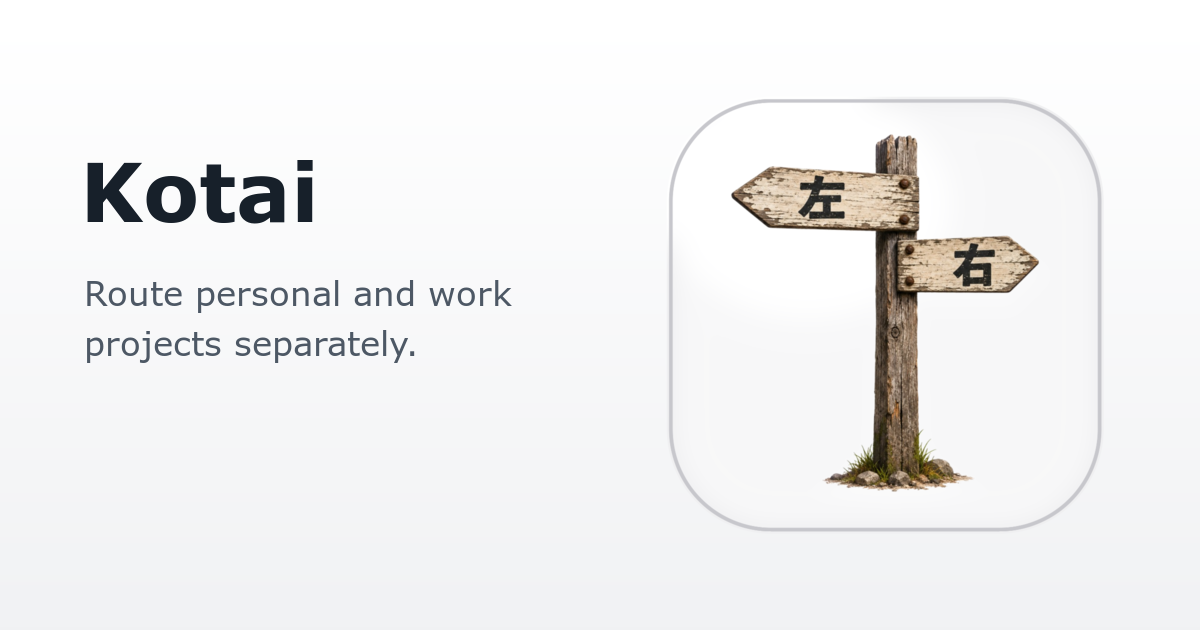
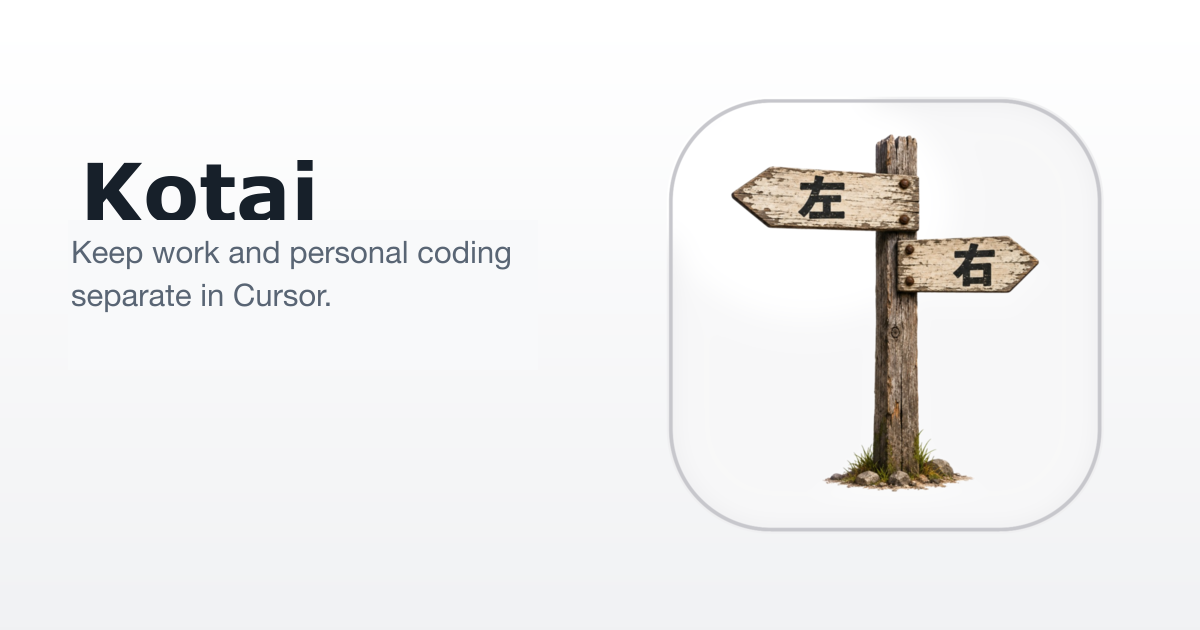
fixes

Changed region(s): [[0.0617, 0.4524, 0.4317, 0.573], [0.0617, 0.3921, 0.4317, 0.4222], [0.185, 0.3317, 0.2158, 0.3619]]

diff --git a/kotai.html b/kotai.html
@@ -11,21 +11,21 @@
   <link rel="canonical" href="https://kotai.jp/">
   <meta name="viewport" content="width=device-width, initial-scale=1">
   <meta name="description" content="Route personal and work projects through separate OpenRouter setups." data-label-en="Route personal and work projects through separate OpenRouter setups." data-label-ja="個人用と仕事用のプロジェクトを、それぞれ別のOpenRouter設定へ振り分けます。">
-  <meta property="apple:title" content="Kotai: OpenRouter chooser for Cursor, etc.">
-  <meta property="og:title" content="Kotai: OpenRouter chooser for Cursor, etc." data-label-en="Kotai: OpenRouter chooser for Cursor, etc." data-label-ja="Kotai：Cursorなどで使うOpenRouter設定を選べます。">
+  <meta property="apple:title" content="Kotai: Keep work and personal coding separate in Cursor.">
+  <meta property="og:title" content="Kotai: Keep work and personal coding separate in Cursor." data-label-en="Kotai: Keep work and personal coding separate in Cursor." data-label-ja="Kotai：Cursorで仕事用と個人用のコーディングを分けます。">
   <meta property="og:type" content="website">
   <meta property="og:description" content="Route personal and work projects through separate OpenRouter setups." data-label-en="Route personal and work projects through separate OpenRouter setups." data-label-ja="個人用と仕事用のプロジェクトを、それぞれ別のOpenRouter設定へ振り分けます。">
-  <meta property="og:image" content="https://kotai.jp/assets/kotai-social.png?v=5">
-  <meta property="og:image:secure_url" content="https://kotai.jp/assets/kotai-social.png?v=5">
+  <meta property="og:image" content="https://kotai.jp/assets/kotai-social.png?v=6">
+  <meta property="og:image:secure_url" content="https://kotai.jp/assets/kotai-social.png?v=6">
   <meta property="og:image:type" content="image/png">
   <meta property="og:image:width" content="1200">
   <meta property="og:image:height" content="630">
   <meta property="og:image:alt" content="Kotai wooden signpost icon" data-label-en="Kotai wooden signpost icon" data-label-ja="木製の道標を描いたKotaiのアイコン">
   <meta name="twitter:card" content="summary_large_image">
-  <meta name="twitter:title" content="Kotai: OpenRouter chooser for Cursor, etc." data-label-en="Kotai: OpenRouter chooser for Cursor, etc." data-label-ja="Kotai：Cursorなどで使うOpenRouter設定を選べます。">
+  <meta name="twitter:title" content="Kotai: Keep work and personal coding separate in Cursor." data-label-en="Kotai: Keep work and personal coding separate in Cursor." data-label-ja="Kotai：Cursorで仕事用と個人用のコーディングを分けます。">
   <meta name="twitter:description" content="Route personal and work projects through separate OpenRouter setups." data-label-en="Route personal and work projects through separate OpenRouter setups." data-label-ja="個人用と仕事用のプロジェクトを、それぞれ別のOpenRouter設定へ振り分けます。">
-  <meta name="twitter:image" content="https://kotai.jp/assets/kotai-social.png?v=5">
-  <meta name="twitter:image:alt" content="Kotai wooden signpost with the message Route personal and work projects separately.">
+  <meta name="twitter:image" content="https://kotai.jp/assets/kotai-social.png?v=6">
+  <meta name="twitter:image:alt" content="Kotai wooden signpost with the message Keep work and personal coding separate in Cursor.">
   <style>
     :root {
       --kotai-ink: #17202a;
@@ -101,7 +101,7 @@
         <img class="sasu-icon kotai-hero-icon" src="assets/kotai-icon.png?v=10" alt="Kotai wooden signpost icon" data-alt-en="Kotai wooden signpost icon" data-alt-ja="木製の道標を描いたKotaiのアイコン">
         <div>
           <h1>Kotai</h1>
-          <div class="sasu-subtitle" data-label-en="OpenRouter chooser for Cursor, etc." data-label-ja="Cursorなどで使うOpenRouter設定を選べます。">OpenRouter chooser for Cursor, etc.</div>
+          <div class="sasu-subtitle" data-label-en="Keep work and personal coding separate in Cursor." data-label-ja="Cursorで仕事用と個人用のコーディングを分けます。">Keep work and personal coding separate in Cursor.</div>
         </div>
       </div>
       <div class="sasu-tagline" data-label-en="Route personal and work projects through separate OpenRouter setups." data-label-ja="個人用と仕事用のプロジェクトを、それぞれ別のOpenRouter設定へ振り分けます。">Route personal and work projects through separate OpenRouter setups.</div>

diff --git a/resume.html b/resume.html
@@ -234,9 +234,9 @@
       <div class="job">
         <div
           class="overview"
-          data-label-en="<span class='company'>Kotai</span>: <a href='kotai.html'>OpenRouter chooser for Cursor, etc.</a>"
-          data-label-ja="<span class='company'>Kotai</span>：<a href='kotai.html'>Cursorなどで使うOpenRouter設定を選択</a>"
-        ><span class="company">Kotai</span>: <a href="kotai.html">OpenRouter chooser for Cursor, etc.</a></div>
+          data-label-en="<span class='company'>Kotai</span>: <a href='kotai.html'>keep work and personal coding separate in Cursor</a>"
+          data-label-ja="<span class='company'>Kotai</span>：<a href='kotai.html'>Cursorで仕事用と個人用のコーディングを分ける</a>"
+        ><span class="company">Kotai</span>: <a href="kotai.html">keep work and personal coding separate in Cursor</a></div>
       </div>
       <div class="job">
         <div
